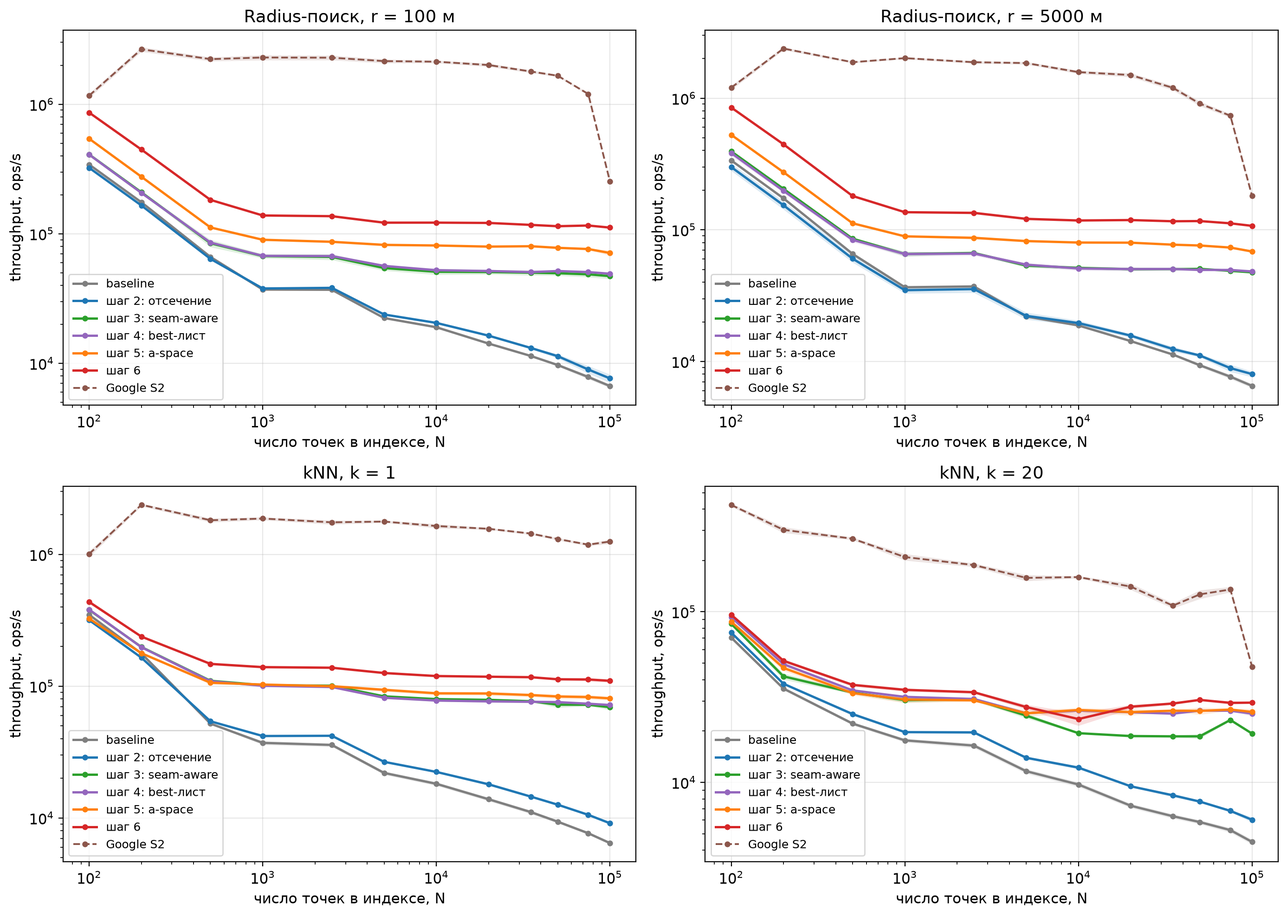
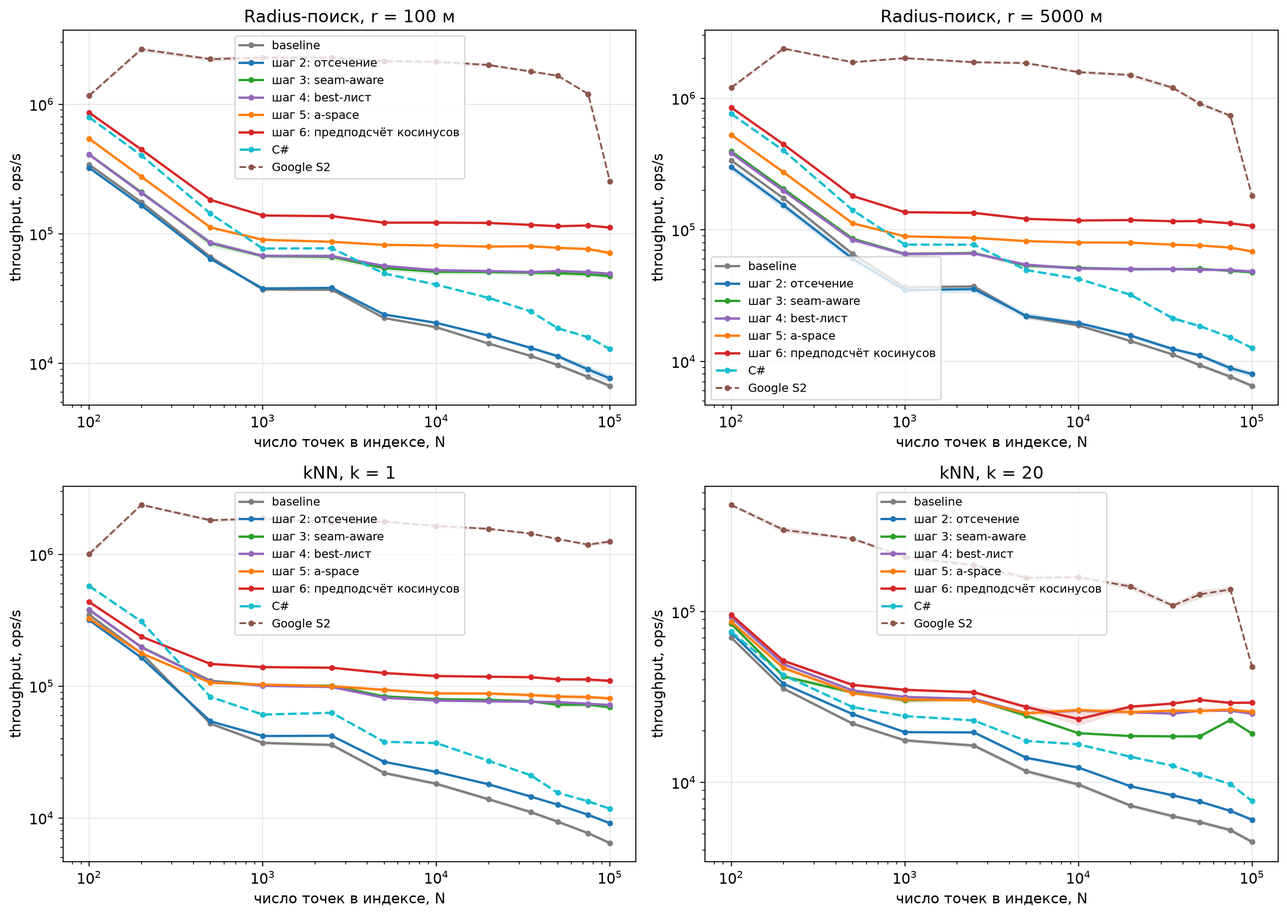
docs: rename step six chart label

diff --git a/lab-1-java-geo-kdtree/tools/make_charts.py b/lab-1-java-geo-kdtree/tools/make_charts.py
@@ -51,7 +51,7 @@ STATE_LABELS = {
     "perf3-seamaware": "шаг 3: seam-aware",
     "perf4-bestinsert": "шаг 4: best-лист",
     "perf5-aspace": "шаг 5: a-space",
-    "perf6-trigcache": "шаг 6",
+    "perf6-trigcache": "шаг 6: предподсчёт косинусов",
 }
 FAMILIES = [("radius", 100), ("radius", 5000), ("knn", 1), ("knn", 20)]
 FAMILY_TITLES = {

diff --git a/lab-1-java-geo-kdtree/baseline.md b/lab-1-java-geo-kdtree/baseline.md
@@ -4,9 +4,9 @@
 
 ## Как снимали профиль
 
-Профайлинг запускали на утилите `profile-runner` (mode radius/knn, n=100000, 30 секунд) — она крутит запросы без JMH-обвязки, поэтому профиль чистый.
+Профайлинг запускали на утилите `profile-runner` (mode radius/knn, n=100000, 30 секунд) - без JMH-обвязки.
 
-Нативного Windows-агента async-profiler в релизах проекта нет (только linux/macos), а WSL-сборка не подошла из-за сети. Поэтому сборка данных — через встроенный в JDK 25 рекордер JFR (`settings=profile`, сэмплы CPU каждые 10 мс), а рендер флеймграфов и разбор стеков — тулингом async-profiler: `jfrconv` из релиза v4.6 (конвертация JFR → HTML/collapsed). Скрипты: `.profiler-tools/capture-jfr.sh`, `summarize-collapsed.py` (локальные, в git не входят).
+Нативного Windows-агента async-profiler в релизах проекта нет (только linux/macos), а WSL-сборка не подошла из-за сети. Поэтому сборка данных - через встроенный в JDK 25 рекордер JFR (`settings=profile`, сэмплы CPU каждые 10 мс), а рендер флеймграфов и разбор стеков - тулингом async-profiler: `jfrconv` из релиза v4.6 (конвертация JFR → HTML/collapsed). Скрипты: `.profiler-tools/capture-jfr.sh`, `summarize-collapsed.py` (локальные, в git не входят).
 
 | Режим | Операций за 30 с | Сэмплов CPU | Артефакты |
 |---|---|---|---|
@@ -17,13 +17,13 @@
 
 ![Flamegraph radius-поиска](report/profiles/images/baseline-radius-flamegraph.png)
 
-Чтение флеймграфа сверху вниз: на самой нижней широкой полосе лежит почти весь профиль — `FdLibm$Asin.compute` под `Math.asin`. Цепочка такая: рекурсия `searchRadiusCore` → `GeoDistance.haversineMeters` → `Math.asin` → чисто-Java реализация fdlibm. Цифры по стекам:
+Чтение флеймграфа сверху вниз: на самой нижней широкой полосе лежит почти весь профиль - `FdLibm$Asin.compute` под `Math.asin`. Цепочка такая: рекурсия `searchRadiusCore` → `GeoDistance.haversineMeters` → `Math.asin` → чисто-Java реализация fdlibm. Цифры по стекам:
 
-- **94,2%** сэмплов — в стеке `haversineMeters`; лист флеймграфа почти у всех сэмплов — `StrictMath.asin` (в HotSpot `asin` не intrinsic, это медленная Java-реализация fdlibm);
-- 10,6% — `axisLowerBoundMeters`, который для проверки дальнего ветки вызывает еще один полный haversine;
-- `sin`/`cos` в листьях не видны — это дешевые JIT-intrinsics (аппаратные инструкции).
+- **94,2%** сэмплов - в стеке `haversineMeters`; лист флеймграфа почти у всех сэмплов - `StrictMath.asin` (в HotSpot `asin` не intrinsic, это медленная Java-реализация fdlibm);
+- 10,6% - `axisLowerBoundMeters`, который для проверки дальнего ветки вызывает еще один полный haversine;
+- `sin`/`cos` в листьях не видны - это дешевые JIT-intrinsics (аппаратные инструкции).
 
-Второй факт: **дерево обходится почти целиком при любом радиусе**. Микробенчмарк это подтверждает — r=100 и r=5000 дают одинаковые 14,2 тыс. ops/s (см. таблицу ниже). Причина в коде: для longitude-сплитов `axisLowerBoundMeters` возвращает 0.0, поэтому дальнюю ветку посещают всегда.
+Второй факт: **дерево обходится почти целиком при любом радиусе**. Микробенчмарк это подтверждает - r=100 и r=5000 дают одинаковые 14,2 тыс. ops/s (см. таблицу ниже). Причина в коде: для longitude-сплитов `axisLowerBoundMeters` возвращает 0.0, поэтому дальнюю ветку посещают всегда.
 
 ## kNN-поиск: где время
 
@@ -31,13 +31,13 @@
 
 Картина та же, плюс виден второй пожиратель:
 
-- **87,9%** — стек `haversineMeters`, лист — снова `asin`;
-- **6,2%** — `tryAddBest`, из них 5,2% — сортировка `TimSort`: список кандидатов пересортировывается на каждый добавленный узел;
-- 3,6% — `Double.compare` в сравнении кандидатов.
+- **87,9%** - стек `haversineMeters`, лист - снова `asin`;
+- **6,2%** - `tryAddBest`, из них 5,2% - сортировка `TimSort`: список кандидатов пересортировывается на каждый добавленный узел;
+- 3,6% - `Double.compare` в сравнении кандидатов.
 
 ## Базовые цифры микробенчмарков
 
-JMH, n=21544, quick-конфиг (`config/bench.settings.iteration.json`: warmup 10 × 0.5 с, 20 итераций × 0.5 с), throughput — больше лучше. Сырые тексты: [report/bench/](report/bench).
+JMH, n=21544, quick-конфиг (`config/bench.settings.iteration.json`: warmup 10 × 0.5 с, 20 итераций × 0.5 с), throughput - больше лучше. Сырые тексты: [report/bench/](report/bench).
 
 | Бенчмарк | Параметр | ops/s |
 |---|---|---|
@@ -50,21 +50,21 @@ JMH, n=21544, quick-конфиг (`config/bench.settings.iteration.json`: warmup
 | queryFullScanKnn | k=1 | 465 ± 18 |
 | queryFullScanKnn | k=20 | 470 ± 15 |
 
-KD-tree быстрее full-scan в 16–30 раз уже в baseline, но от параметров запроса его скорость почти не зависит — так не должно быть: маленький радиус должен проверять в разы меньше узлов.
+KD-tree быстрее full-scan в 16–30 раз уже в baseline, но от параметров запроса его скорость почти не зависит - так не должно быть: маленький радиус должен проверять в разы меньше узлов.
 
 ## План оптимизаций (по ожидаемому импакту, от большего к меньшему)
 
-Каждое изменение не меняет результаты запросов — property-тесты против full-scan oracle (допуск 1e-6) остаются зелеными. После каждого шага: перезапуск тестов, тот же quick-бенчмарк, повторный профайлинг 2×30 с, фиксация цифр в отчётах [report/](report/).
+Каждое изменение не меняет результаты запросов - property-тесты против full-scan oracle (допуск 1e-6) остаются зелеными. После каждого шага: перезапуск тестов, тот же quick-бенчмарк, повторный профайлинг 2×30 с, фиксация цифр в отчётах [report/](report/).
 
-1. **`perf:` asin → atan2.** Заменить `2·asin(√a)` на `2·atan2(√a, √(1−a))` — математически то же, но `atan2` в HotSpot intrinsic (быстрый libm), а `asin` — нет. Лист в 94% сэмплов уходит из профиля. Ожидание: ×3–6 на оба поиска.
-2. **`perf:` отсечение по долготе.** Для longitude-сплитов вернуть настоящую нижнюю границу: минимальное расстояние от запроса до меридиана `R·asin(|cos φq·sin Δλ|)` — любой путь через меридиан не короче. Радиус 100 м перестанет посещать ~98% дальних веток. Ожидание: ×5–20 на radius-поиск, заметный выигрыш и в kNN.
+1. **`perf:` asin → atan2.** Заменить `2·asin(√a)` на `2·atan2(√a, √(1−a))` - математически то же, но `atan2` в HotSpot intrinsic (быстрый libm), а `asin` - нет. Лист в 94% сэмплов уходит из профиля. Ожидание: ×3–6 на оба поиска.
+2. **`perf:` отсечение по долготе.** Для longitude-сплитов вернуть настоящую нижнюю границу: минимальное расстояние от запроса до меридиана `R·asin(|cos φq·sin Δλ|)` - любой путь через меридиан не короче. Радиус 100 м перестанет посещать ~98% дальних веток. Ожидание: ×5–20 на radius-поиск, заметный выигрыш и в kNN.
 3. **`perf:` сравнение в a-пространстве.** Для сравнений переходить от метров к `a = sin²(d/2R)`: условие `d ≤ r` превращается в `a ≤ sin²(r/2R)`, порядок кандидатов по `a` совпадает с порядком по `d`. `sqrt` и тригонометрия остаются только для попаданий и итоговых результатов. Ожидание: еще ×2–4 на путь сравнения.
 4. **`perf:` kNN без пересортировки.** Держать best-лист отсортированным и вставлять кандидата бинарным поиском вместо полной сортировки на каждый узел. Снимает ~5–8% kNN-профиля.
 5. **`perf:` кэш тригонометрии.** `cos(lat)` узла хранить в Node, `cos(queryLat)` считать один раз на запрос. Убирает 2 из 4 тригонометрических вызовов на расчет расстояния (после шагов 1–3 это основное, что останется в листьях).
-6. **`perf:` аллокации.** Создавать `GeoSearchResult`-кандидат только когда он реально попадает в best, задать начальную емкость спискам результатов. Сейчас 153 B/op в radius-поиске; CPU-эффект небольшой, но аллокации — цель по заданию.
+6. **`perf:` аллокации.** Создавать `GeoSearchResult`-кандидат только когда он реально попадает в best, задать начальную емкость спискам результатов. Сейчас 153 B/op в radius-поиске; CPU-эффект небольшой, но аллокации - цель по заданию.
 
-Шаги независимы: если какой-то не даст ожидаемого прироста, откат не ломает остальные. Финальная проверка — полный JMH-прогон из `config/bench.settings.json` и свежие флеймграфы.
+Шаги независимы: если какой-то не даст ожидаемого прироста, откат не ломает остальные. Финальная проверка - полный JMH-прогон из `config/bench.settings.json` и свежие флеймграфы.
 
 ---
 
-Замеры по этому плану — в [report/](report/): [цикл оптимизаций](report/2-optimization-cycle.md), [реальные данные](report/3-real-data.md), [публичные библиотеки](report/4-public-comparison.md). Сырые артефакты — `report/bench/grid/` и `report/profiles/grid/`.
+Замеры по этому плану - в [report/](report/): [цикл оптимизаций](report/2-optimization-cycle.md), [реальные данные](report/3-real-data.md), [публичные библиотеки](report/4-public-comparison.md). Сырые артефакты - `report/bench/grid/` и `report/profiles/grid/`.

diff --git a/lab-1-java-geo-kdtree/README.md b/lab-1-java-geo-kdtree/README.md
@@ -1,6 +1,6 @@
-# Лабораторная 1 — Geo KD-tree (профилирование и тестирование производительности)
+# Лабораторная 1 - Geo KD-tree (профилирование и тестирование производительности)
 
-Структура: корневой модуль — библиотека `org.timermakov.geo` (KD-tree; действующая реализация — ECEF в `GeoKdTreeIndex`, геодезическая сохранена как `GeoGeodesicKdTreeIndex` для экспериментов), `:benchmarks` — JMH, `:profile-runner` — tight-loop прогон для профилировщика.
+Структура: корневой модуль - библиотека `org.timermakov.geo` (KD-tree; действующая реализация - ECEF в `GeoKdTreeIndex`, геодезическая сохранена как `GeoGeodesicKdTreeIndex` для экспериментов), `:benchmarks` - JMH, `:profile-runner` - tight-loop прогон для профилировщика.
 
 1. Geo KD-tree для точек `Lat/Lng`
 2. Вставка объектов `Insert`
@@ -15,7 +15,7 @@
 ```
 ./gradlew build                # сборка + все тесты (включая perf smoke)
 ./gradlew test                 # тесты (property: 80 детерминированных кейсов vs full-scan oracle + unit + perf)
-./gradlew :benchmarks:bench    # полный JMH-прогон (warmup 15 x 0.5s, 40 итераций — долго)
+./gradlew :benchmarks:bench    # полный JMH-прогон (warmup 15 x 0.5s, 40 итераций - долго)
 ./gradlew :benchmarks:benchPublic   # бенчмарки публичной библиотеки (Smile KDTree на ECEF-3D)
 ./gradlew :benchmarks:benchS2       # бенчмарки Google S2 (публичный ориентир)
 ./gradlew :benchmarks:benchSmoke    # один быстрый прогон для проверки запуска (HW1_BENCH_SMOKE=1)
@@ -24,7 +24,7 @@
 
 ## Конфигурация бенчмарков
 
-Все параметры прогонов — в [`config/bench.settings.json`](config/bench.settings.json), не в коде:
+Все параметры прогонов - в [`config/bench.settings.json`](config/bench.settings.json), не в коде:
 
 | Поле | Значение по умолчанию | Смысл |
 |---|---|---|
@@ -38,9 +38,9 @@
 | `gcProfiler` | `true` | JMH gc-профайлер (аналог MemoryDiagnoser) |
 | `resultDir` | `build/jmh-results` | каталог текстовых результатов |
 
-Замеры цикла оптимизаций снимались в двух конфигурациях: baseline и финальное состояние — warmup 15 + 40 итераций (`config/bench.settings.json`), промежуточные состояния — warmup 10 + 20 итераций (переопределение `HW1_BENCH_CONFIG`). Переопределения:
-- `HW1_BENCH_CONFIG=<путь>` — нестандартный путь к конфигу
-- `HW1_BENCH_SMOKE=1` — smoke-режим (один кейс, без warmup; эквивалент `benchSmoke`)
+Замеры цикла оптимизаций снимались в двух конфигурациях: baseline и финальное состояние - warmup 15 + 40 итераций (`config/bench.settings.json`), промежуточные состояния - warmup 10 + 20 итераций (переопределение `HW1_BENCH_CONFIG`). Переопределения:
+- `HW1_BENCH_CONFIG=<путь>` - нестандартный путь к конфигу
+- `HW1_BENCH_SMOKE=1` - smoke-режим (один кейс, без warmup; эквивалент `benchSmoke`)
 
 Методы бенчмарков используют батчи операций (`@OperationsPerInvocation`, аналогично `OperationsPerInvoke` в C#): KD-tree 128, full-scan baseline 16/32. Результаты: `build/jmh-results/geo-kd-tree-knn.txt` и `geo-kd-tree-radius.txt`.
 
@@ -56,13 +56,13 @@
 ./gradlew :profile-runner:run --args="--mode knn --seconds 120 --n 100000 --k 20"
 ```
 
-JFR-сборка + рендер флеймграфов тулингом async-profiler (`jfrconv`) — скрипт [tools/capture-jfr.sh](tools/capture-jfr.sh) (пути внутри рассчитаны на эту машину; JFR пишется JVM, конвертация — `java -jar tools/../.profiler-tools/.../jfrconv`, см. скрипт):
+JFR-сборка + рендер флеймграфов тулингом async-profiler (`jfrconv`) - скрипт [tools/capture-jfr.sh](tools/capture-jfr.sh) (пути внутри рассчитаны на эту машину; JFR пишется JVM, конвертация - `java -jar tools/../.profiler-tools/.../jfrconv`, см. скрипт):
 
 ```
 bash tools/capture-jfr.sh radius 30 my-radius-profile   # -> report/profiles/my-radius-profile.{jfr,html,collapsed}
 ```
 
-async-profiler: приаттачиться к PID процесса `ProfileRunner` (см. `jps`), собрать flamegraph (`-e cpu -f flamegraph.html`). Артефакты — в `report/profiles/` (создаётся при первом прогоне).
+async-profiler: приаттачиться к PID процесса `ProfileRunner` (см. `jps`), собрать flamegraph (`-e cpu -f flamegraph.html`). Артефакты - в `report/profiles/` (создаётся при первом прогоне).
 
 ## Baseline и оптимизации
 
@@ -70,21 +70,14 @@ async-profiler: приаттачиться к PID процесса `ProfileRunne
 
 Поверх него выполнено исследование производительности и оптимизации: отсечение дальних веток по долготе (seam-aware граница), сравнения в a-space без `sqrt`/`asin`, бинарная вставка в best-лист, кэш косинусов широт.
 
-Итог на расширенной сетке (N до 100000, см. [отчёты](report/)): ускорение к baseline ×16.4–17.0 для radius и kNN k=1, ×6.6 для kNN k=20; финал быстрее полного перебора в 570–1075 раз на n=100000. Каноническое реализация — ECEF (см. [5 — эксперименты со структурой](report/5-structure-experiments.md)); есть сравнение с C#, Smile и Google S2.
+Итог на расширенной сетке (N до 100000, см. [отчёты](report/)): ускорение к baseline ×16.4–17.0 для radius и kNN k=1, ×6.6 для kNN k=20; финал быстрее полного перебора в 570–1075 раз на n=100000. Каноническое реализация - ECEF (см. [5 - эксперименты со структурой](report/5-structure-experiments.md)); есть сравнение с C#, Smile и Google S2.
 
 ## Отчёты
 
-- [REPORT.md](REPORT.md) — итоговый отчёт по лабораторной: результаты, профайлинг, выводы
+- [REPORT.md](REPORT.md) - итоговый отчёт по лабораторной: результаты, профайлинг, выводы
 
-- [baseline.md](baseline.md) — анализ baseline-профилей (async-profiler-тулинг по JFR-сборкам) и план оптимизаций
-- [report/1-method.md](report/1-method.md) — методика: сетка, конфиги, ДИ, паритет с C#
-- [report/2-optimization-cycle.md](report/2-optimization-cycle.md) — baseline и шесть состояний, главные графики
-- [report/3-real-data.md](report/3-real-data.md) — taxi/POI/8 млн точек, сравнение с C#
-- [report/4-public-comparison.md](report/4-public-comparison.md) — Smile и Google S2, разложение узлы × цена, точность
-- [report/5-structure-experiments.md](report/5-structure-experiments.md) — ECEF, многопрогонность, коробки (опровергнуто), scapegoat
-- [report/6-related-work.md](report/6-related-work.md) — обзор библиотек (JTS, GEOS, S2, Lucene, JSI) и research gap
-- [report/7-static-vs-dynamic.md](report/7-static-vs-dynamic.md) — цена мутабельности: динамическое реализация против статического Smile
-- [report/research-plan.md](report/research-plan.md) — гипотезы H1–H6, статусы, отложенные пункты
-- `report/profiles/` — JFR-записи, HTML-флеймграфы, collapsed-стеки; `report/profiles/grid/` — по каждому состоянию на расширенной сетке; `report/profiles/images/` — скриншоты
-- `report/bench/` — сырые JMH-результаты; `report/bench/grid/` — замеры по состояниям на расширенной сетке + сводные таблицы
-- `report/charts/` — графики (throughput, speedup, кратности, Java против C#, против Smile), генератор — `tools/make_charts.py`
+- [baseline.md](baseline.md) - анализ baseline-профилей (async-profiler-тулинг по JFR-сборкам) и план оптимизаций
+- 
+- `report/profiles/` - JFR-записи, HTML-флеймграфы, collapsed-стеки; `report/profiles/grid/` - по каждому состоянию на расширенной сетке; `report/profiles/images/` - скриншоты
+- `report/bench/` - сырые JMH-результаты; `report/bench/grid/` - замеры по состояниям на расширенной сетке + сводные таблицы
+- `report/charts/` - графики (throughput, speedup, кратности, Java против C#, против Smile), генератор - `tools/make_charts.py`
